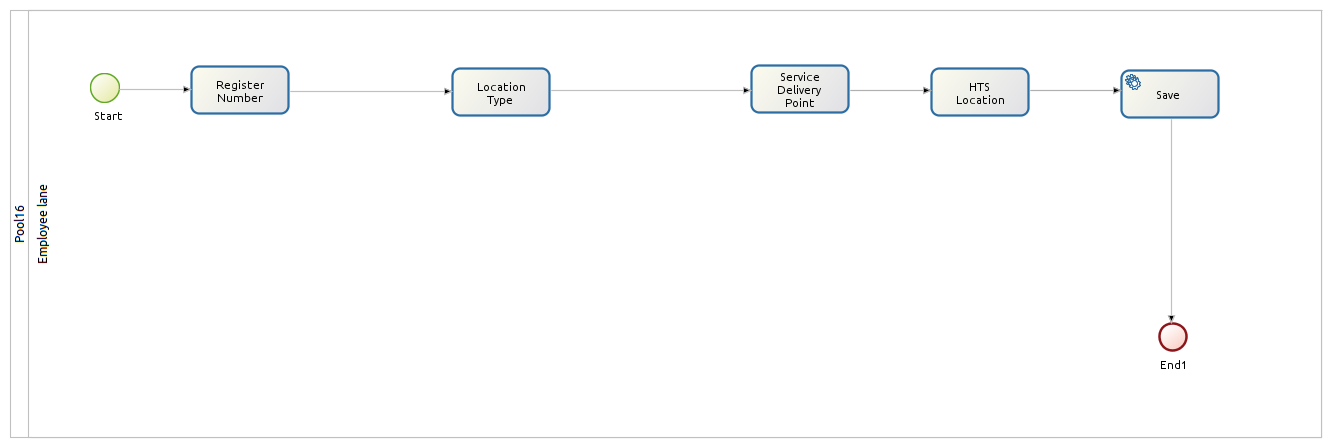
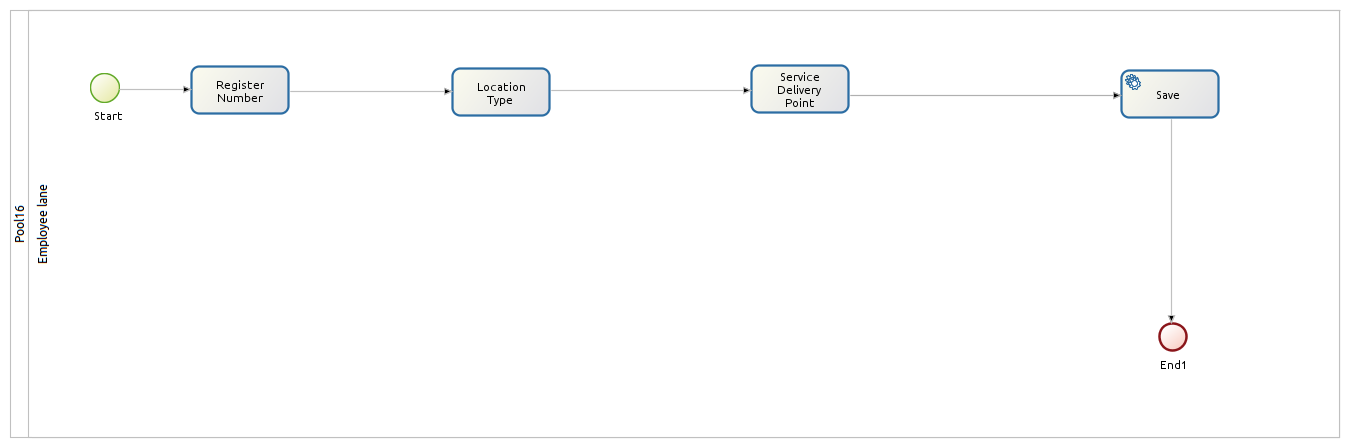
Started removing locations from mapping to registers

diff --git a/db/recalibrate.js b/db/recalibrate.js
@@ -614,7 +614,7 @@ const recalibrate = async () => {
         },
         {
             message: "Loading registers ...",
-            cmd: 'MYSQL_PWD=' + password + ' mysql -u ' + user + ' ' + database + ' -e "DROP TABLE IF EXISTS t1; CREATE TEMPORARY TABLE IF NOT EXISTS t1 (INDEX(register_id), INDEX(registerNumber)) ENGINE MyISAM AS (SELECT register_id, CASE WHEN register_number REGEXP \'^[[:digit:]]+$\' THEN CONCAT(register_number, \'-\', (SELECT name FROM hts_register_service_delivery_point WHERE hts_register_service_delivery_point.service_delivery_point_id = hts_register.service_delivery_point_id LIMIT 1), \'-\', (SELECT name FROM location WHERE location_id = (CASE WHEN COALESCE(hts_register.location_id, 0) = 0 THEN 1 ELSE hts_register.location_id END) LIMIT 1)) WHEN register_number REGEXP \'[[:digit:]]\-[^\-]+\-[^\-]+\' THEN register_number WHEN register_number REGEXP \'[[:digit:]]\-\' THEN CONCAT(register_number, \'-\', (SELECT name FROM location WHERE location_id = (CASE WHEN COALESCE(hts_register.location_id, 0) = 0 THEN 1 ELSE hts_register.location_id END) LIMIT 1)) ELSE CONCAT(register_number, \'-\', (SELECT name FROM location WHERE location_id = (CASE WHEN COALESCE(hts_register.location_id, 0) = 0 THEN 1 ELSE hts_register.location_id END) LIMIT 1)) END AS registerNumber FROM hts_register LEFT OUTER JOIN hts_register_service_delivery_point ON hts_register_service_delivery_point.service_delivery_point_id = hts_register.service_delivery_point_id); UPDATE hts_register SET register_number = (SELECT registerNumber FROM t1 WHERE register_id = hts_register.register_id LIMIT 1); SELECT register_number AS _id, register_number AS registerNumber, hts_register_location_type.name AS locationType, hts_register_service_delivery_point.name AS serviceDeliveryPoint, DATE_FORMAT(date_created, \'%Y-%m-%d\') AS dateCreated FROM hts_register LEFT OUTER JOIN hts_register_location_type ON hts_register_location_type.location_type_id = hts_register.location_type_id LEFT OUTER JOIN hts_register_service_delivery_point ON hts_register_service_delivery_point.service_delivery_point_id = hts_register.service_delivery_point_id" | ./mapData.js --type register | curl -H "Content-Type: application/x-ndjson" -X POST --data-binary @- "' + es.protocol + "://" + es.host + ":" + es.port + "/" + es.index + '/_bulk" -s'
+            cmd: 'MYSQL_PWD=' + password + ' mysql -u ' + user + ' ' + database + ' -e "DROP TABLE IF EXISTS t1; CREATE TEMPORARY TABLE IF NOT EXISTS t1 (INDEX(register_id), INDEX(registerNumber)) ENGINE MyISAM AS (SELECT register_id, CASE WHEN register_number REGEXP \'^[[:digit:]]+$\' THEN CONCAT(register_number, \'-\', (SELECT name FROM hts_register_service_delivery_point WHERE hts_register_service_delivery_point.service_delivery_point_id = hts_register.service_delivery_point_id LIMIT 1)) WHEN register_number REGEXP \'[[:digit:]]-[^-]+-[^-]+\' THEN CONCAT((SELECT SUBSTRING(register_number, 1, LOCATE(\'-\', register_number))), (SELECT name FROM hts_register_service_delivery_point WHERE hts_register_service_delivery_point.service_delivery_point_id = hts_register.service_delivery_point_id LIMIT 1)) ELSE register_number END AS registerNumber FROM hts_register LEFT OUTER JOIN hts_register_service_delivery_point ON hts_register_service_delivery_point.service_delivery_point_id = hts_register.service_delivery_point_id); UPDATE hts_register SET register_number = (SELECT registerNumber FROM t1 WHERE register_id = hts_register.register_id LIMIT 1); SELECT register_number AS _id, register_number AS registerNumber, hts_register_location_type.name AS locationType, hts_register_service_delivery_point.name AS serviceDeliveryPoint, DATE_FORMAT(date_created, \'%Y-%m-%d\') AS dateCreated FROM hts_register LEFT OUTER JOIN hts_register_location_type ON hts_register_location_type.location_type_id = hts_register.location_type_id LEFT OUTER JOIN hts_register_service_delivery_point ON hts_register_service_delivery_point.service_delivery_point_id = hts_register.service_delivery_point_id WHERE closed = 0" | ./mapData.js --type register | curl -H "Content-Type: application/x-ndjson" -X POST --data-binary @- "' + es.protocol + "://" + es.host + ":" + es.port + "/" + es.index + '/_bulk" -s'
         },
         {
             message: "Loading obs data ...",

diff --git a/server/boot/programs.js b/server/boot/programs.js
@@ -3519,11 +3519,16 @@ module.exports = function (app) {
 
     let existingRegister = (locationTypeId !== null && serviceDeliveryPointId !== null ? await HtsRegister.findOne({
       where: {
-        registerNumber: (json['Register Number'] + "-" + json['Service Delivery Point'] + "-" + json['HTS Location']),
-        serviceDeliveryPointId,
-        locationTypeId,
-        locationId,
-        closed: 0
+        and: [
+          {
+            registerNumber: {
+              like: json['Register Number'] + '-%'
+            }
+          },
+          {
+            closed: 0
+          }
+        ]
       }
     }) : null);
 
@@ -3546,7 +3551,7 @@ module.exports = function (app) {
     if (!existingRegister || (existingRegister && Object.keys(existingRegister).length <= 0)) {
 
       let register = await HtsRegister.create({
-        registerNumber: (json['Register Number'] + "-" + json['Service Delivery Point'] + "-" + json['HTS Location']),
+        registerNumber: (json['Register Number'] + "-" + json['Service Delivery Point']),
         locationTypeId,
         serviceDeliveryPointId,
         locationId,
@@ -3558,10 +3563,9 @@ module.exports = function (app) {
 
       let args = {
         data: {
-          registerNumber: (json['Register Number'] + "-" + json['Service Delivery Point'] + "-" + json['HTS Location']),
+          registerNumber: (json['Register Number'] + "-" + json['Service Delivery Point']),
           locationType: json['Location Type'],
           serviceDeliveryPoint: json['Service Delivery Point'],
-          htsLocation: json['HTS Location'],
           dateCreated: (new Date(register.dateCreated)).format("YYYY-mm-dd")
         },
         headers: {
@@ -3569,7 +3573,9 @@ module.exports = function (app) {
         }
       };
 
-      new client().post(es.protocol + "://" + es.host + ":" + es.port + "/" + es.index + "/register/" + (json['Register Number'] + "-" + json['Service Delivery Point'] + "-" + json['HTS Location']), args, function (result) {
+      new client().post(es.protocol + "://" + es.host + ":" + es.port + "/" + es.index + "/register/" + (json['Register Number'] + "-" + json['Service Delivery Point']).replace(/\//g,'_'), args, function (result) {
+
+        debug(JSON.stringify(result, null, 2));
 
         res
           .status(200)
@@ -3628,7 +3634,9 @@ module.exports = function (app) {
           closedBy: user.id
         })
 
-      new client().delete(es.protocol + "://" + es.host + ":" + es.port + "/" + es.index + "/register/" + registerNumber, function (result) {
+      new client().delete(es.protocol + "://" + es.host + ":" + es.port + "/" + es.index + "/register/" + String(registerNumber).replace(/\//g,'_'), function (result) {
+
+        debug(result, null, 2);
 
         res
           .status(200)
@@ -3700,7 +3708,7 @@ module.exports = function (app) {
             return parseInt(a._id, 10) > parseInt(b._id, 10)
           })
           .map((e) => {
-            return `${e._id} (${e._source.locationType})`
+            return `${e._source.registerNumber} (${e._source.locationType})`
           });
 
       }
